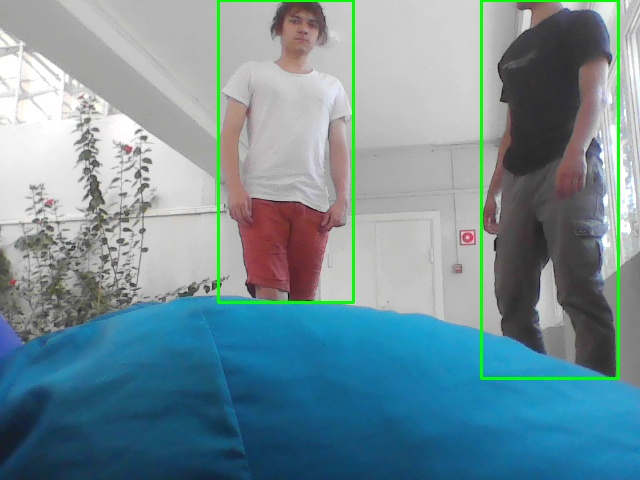
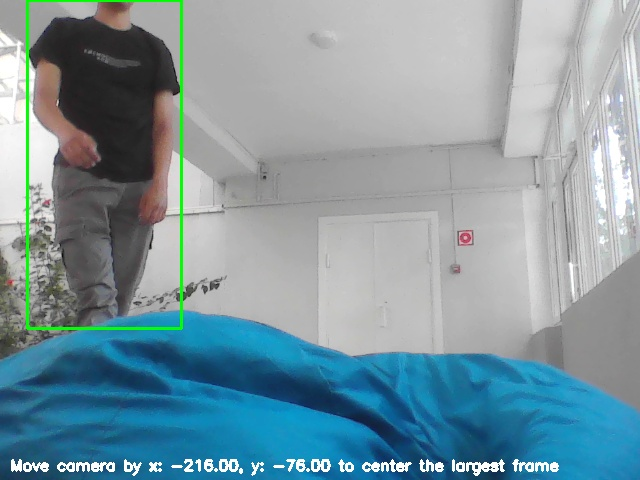
minor changes added adjusting strafe

diff --git a/capture_human.py b/capture_human.py
@@ -2,6 +2,7 @@ import cv2
 from ultralytics import YOLO
 import time
 import os
+
 # Load the YOLOv8 model
 model = YOLO('yolov8n.pt')  # You can choose 'yolov8n.pt', 'yolov8s.pt', etc., for different sizes
 
@@ -11,10 +12,28 @@ cap = cv2.VideoCapture(0)
 if not cap.isOpened():
     print("Error: Could not open video device.")
     exit()
+
+# Ensure the directory to save frames exists
 if not os.path.exists('captured_frames'):
     os.makedirs('captured_frames')
+
 print("Press 'Ctrl+C' to stop capturing.")
+
 frame_count = 0
+
+def calculate_center_move(box, frame_width, frame_height):
+    x1, y1, x2, y2 = box
+    box_center_x = (x1 + x2) / 2
+    box_center_y = (y1 + y2) / 2
+
+    frame_center_x = frame_width / 2
+    frame_center_y = frame_height / 2
+
+    move_x = box_center_x - frame_center_x
+    move_y = box_center_y - frame_center_y
+
+    return move_x, move_y
+
 try:
     while True:
         # Capture frame-by-frame
@@ -28,6 +47,8 @@ try:
         results = model(frame)
 
         # Extract bounding boxes and class labels
+        largest_box = None
+        largest_area = 0
         for r in results:
             boxes = r.boxes  # Boxes object for bbox outputs
             for box in boxes:
@@ -35,20 +56,34 @@ try:
                 if int(cls) == 0:  # Class '0' is 'person' in COCO dataset
                     x1, y1, x2, y2 = map(int, box.xyxy[0])  # Bounding box coordinates
                     conf = box.conf[0]  # Confidence score
+                    area = (x2 - x1) * (y2 - y1)
+                    if area > largest_area:
+                        largest_area = area
+                        largest_box = (x1, y1, x2, y2)
+
                     # Draw the bounding box
                     cv2.rectangle(frame, (x1, y1), (x2, y2), (0, 255, 0), 2)
                     label = f"Person: {conf:.2f}"
                     cv2.putText(frame, label, (x1, y1 - 10), cv2.FONT_HERSHEY_SIMPLEX, 0.5, (0, 255, 0), 2)
 
-        # Show the output frame
-        frame_filename = f'captured_frames/frame_{frame_count:04d}.jpg'
+        # Print coordinates and calculate move for the largest box
+        if largest_box is not None:
+            print(f"Largest box coordinates: {largest_box}")
+            frame_height, frame_width = frame.shape[:2]
+            move_x, move_y = calculate_center_move(largest_box, frame_width, frame_height)
+            print(f"Move camera by x: {move_x}, y: {move_y} to center the largest frame")
+            # Add the text to the frame
+            move_text = f"Move camera by x: {move_x:.2f}, y: {move_y:.2f} to center the largest frame"
+            cv2.putText(frame, move_text, (10, frame_height - 10), cv2.FONT_HERSHEY_SIMPLEX, 0.5, (255, 255, 255), 2)
+
+        # Save the captured frame
+        frame_filename = os.path.join('captured_frames', f'frame_{frame_count:04d}.jpg')
         cv2.imwrite(frame_filename, frame)
-        time.sleep(1)
-        #cv2.imshow("Frame", frame)
+        print(f'Captured {frame_filename}')
         frame_count += 1
-        # Check if 'q' is pressed to stop capturing
-        if 0xFF == ord('q'):
-            break
+
+        # Wait for 1 second before capturing the next frame
+        time.sleep(1)
 
 except KeyboardInterrupt:
     print("Interrupted by user")
